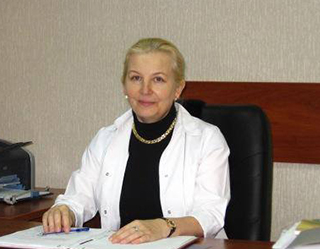
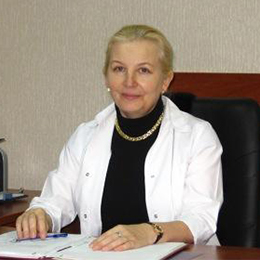
feat: change styles for team section

diff --git a/src/app/logic/team/Team.tsx b/src/app/logic/team/Team.tsx
@@ -4,6 +4,7 @@ import styles from "src/app/logic/team/Team.module.scss";
 import employeeOneSrc from "src/resources/employee-1.jpg";
 import employeeTwoSrc from "src/resources/employee-2.jpg";
 import employeeThreeSrc from "src/resources/employee-3.jpg";
+import employeeFourSrc from "src/resources/employee-4.jpg";
 
 /**
  * Team section
@@ -14,6 +15,7 @@ export const Team: React.FC = () => {
   const CONTAINER_STYLES = clsx(styles.team__container);
   const CONTENT_STYLES = clsx(styles.team__content);
   const DESCRIPTION_STYLES = clsx(styles.team__description);
+  const FULL_NAME_STYLES = clsx(styles.team__full_name);
 
   return (
     <section className={TEAM_STYLES} id="employees">
@@ -24,11 +26,11 @@ export const Team: React.FC = () => {
             <img
               src={employeeOneSrc}
               alt="Сотрудник Татьяна Васильевна Докукина. Доктор медицинских наук."
-              width="320"
-              height="253"
+              width="260"
+              height="260"
             />
             <figcaption className={DESCRIPTION_STYLES}>
-              <p>
+              <p className={FULL_NAME_STYLES}>
                 <b>Докукина Татьяна Васильевна</b>
               </p>
               <em>Доктор медицинских наук.</em>
@@ -38,11 +40,11 @@ export const Team: React.FC = () => {
             <img
               src={employeeTwoSrc}
               alt="Сотрудник Ольга Михайловна Лапыш. Врач психиатр-нарколог."
-              width="320"
-              height="253"
+              width="260"
+              height="260"
             />
             <figcaption className={DESCRIPTION_STYLES}>
-              <p>
+              <p className={FULL_NAME_STYLES}>
                 <b>Лапыш Ольга Михайловна</b>
               </p>
               <em>Врач психиатр-нарколог.</em>
@@ -60,11 +62,11 @@ export const Team: React.FC = () => {
             <img
               src={employeeThreeSrc}
               alt="Сотрудник Мария Николаевна Трущенко. Врач."
-              width="320"
-              height="253"
+              width="260"
+              height="260"
             />
             <figcaption className={DESCRIPTION_STYLES}>
-              <p>
+              <p className={FULL_NAME_STYLES}>
                 <b>Трущенко Мария Николаевна</b>
               </p>
               <em>Медицинский психолог, нейропсихолог.</em>
@@ -72,16 +74,22 @@ export const Team: React.FC = () => {
           </figure>
           <figure>
             <img
-              src={employeeThreeSrc}
-              alt="Сотрудник Мария Николаевна Трущенко. Врач."
-              width="320"
-              height="253"
+              src={employeeFourSrc}
+              alt="Сотрудник Наталия Владимировна Громова. Медицинский (клинический) психолог."
+              width="260"
+              height="260"
             />
             <figcaption className={DESCRIPTION_STYLES}>
-              <p>
-                <b>Трущенко Мария Николаевна</b>
+              <p className={FULL_NAME_STYLES}>
+                <b>Громова Наталия Владимировна</b>
               </p>
-              <em>Медицинский психолог, нейропсихолог.</em>
+              <em>Медицинский (клинический) психолог.</em>
+              <p>
+                <em>
+                  Научный сотрудник отдела психических и поведенческих расстройств,
+                  заведующий образовательным центром РНПЦ психического здоровья.
+                </em>
+              </p>
             </figcaption>
           </figure>
         </div>

diff --git a/src/app/logic/team/Team.module.scss b/src/app/logic/team/Team.module.scss
@@ -14,12 +14,7 @@
     margin: 10px auto 0;
   }
   &__container img {
-    margin-left: -37px;
-    background: #a5808a;
-    border: 13px solid #a5808a;
-    border-radius: 13px;
-    transform: scale(0.84) translateX(15%) rotateZ(-3.5deg);
-    transform-origin: 0 100%;
+    border-radius: 50%;
     overflow: hidden;
   }
   &__content {
@@ -31,9 +26,17 @@
     align-content: center;
     justify-content: space-around;
   }
+  &__content figure {
+    margin-top: 25px;
+  }
   &__description {
     max-width: 320px;
     margin-top: 10px;
+    font-size: 0.77rem;
+    text-align: center;
+  }
+  &__full_name {
+    font-size: 0.88rem;
   }
 }
 

diff --git a/src/app/logic/testScreen/AfterTestScreen.tsx b/src/app/logic/testScreen/AfterTestScreen.tsx
@@ -28,7 +28,7 @@ export const AfterTestScreen: React.FC = () => {
       <article className={TEST_CONTAINER_STYLES}>
         <div className={RESULT_TITLE_STYLES}>{message["message"].title}</div>
         <div className={RESULT_TEXT_STYLES}>{message["message"].body}</div>
-        <div className={RESULT_TEXT_STYLES}>{score}</div>
+        <div className={RESULT_TEXT_STYLES}>{`Количество набранных баллов: ${score}`}</div>
       </article>
     </section>
   );
